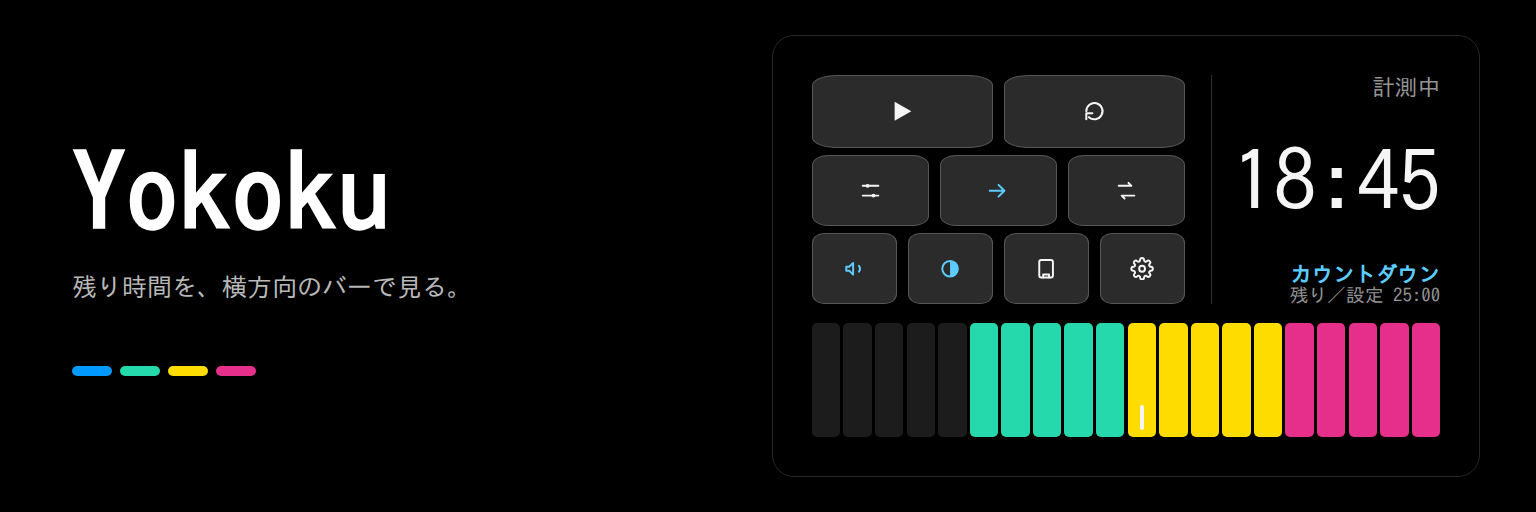
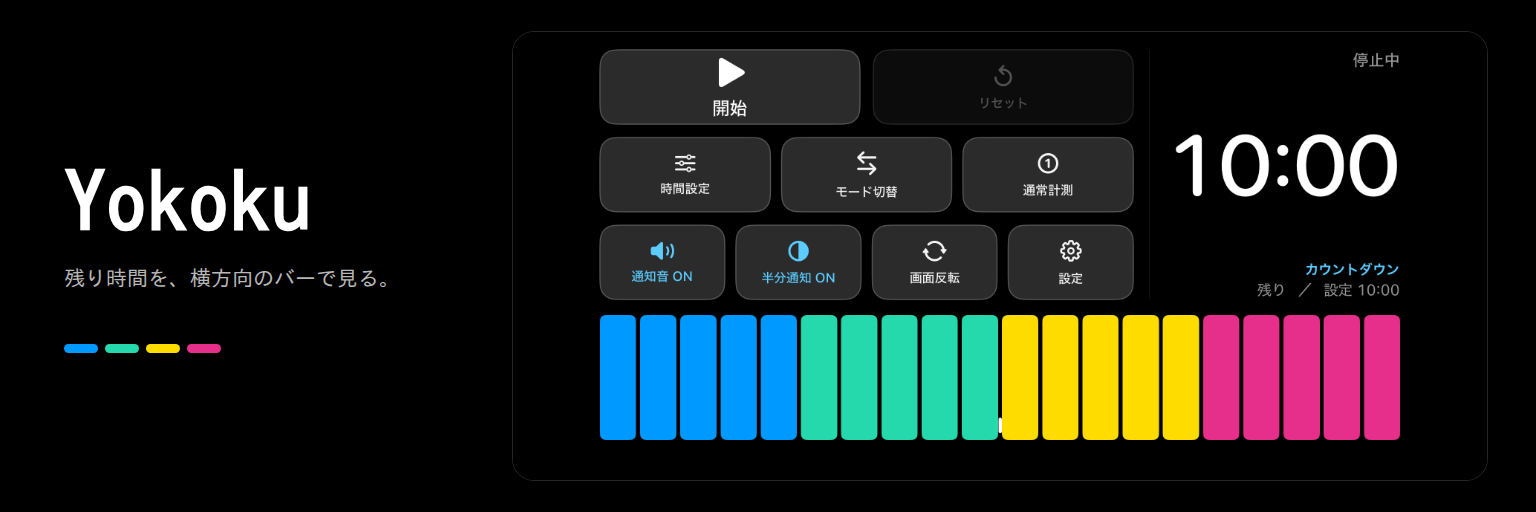
Replace CSS-mocked hero/thumbnail with real Yokoku screenshot
Uses the home.png device screenshot added in the previous commit
instead of the hand-drawn approximation of the TimerScreen layout.

diff --git a/yokoku/index.html b/yokoku/index.html
@@ -19,7 +19,6 @@
 <meta name="twitter:title" content="Yokoku｜横方向のビジュアルバータイマー">
 <meta name="twitter:description" content="残り時間を横方向のビジュアルバーで示すiPhone向けタイマーアプリ。バーは左端から減り、数字と同じ状態から描かれます。">
 <meta name="twitter:image" content="https://rinro.jp/assets/apps/yokoku-thumbnail.png">
-<link rel="stylesheet" href="assets/mock.css">
 <style>
   :root {
     color-scheme: dark;
@@ -111,12 +110,12 @@
   }
   .cta-note { font-size: 13px; color: var(--secondary); }
 
-  .hero-visual .yk-mock {
+  .hero-visual .home-shot {
     width: 100%;
-    aspect-ratio: 16 / 10;
+    display: block;
+    aspect-ratio: 2622 / 1206;
     border-radius: 22px;
     border: 1px solid var(--border);
-    padding: 5.5%;
   }
 
   section.features { padding: 20px 0 72px; border-top: 1px solid var(--border); }
@@ -190,77 +189,7 @@
           <p class="cta-note" style="margin-top: 14px;">現在開発中です。公開まで、もうしばらくお待ちください。</p>
         </div>
         <div class="hero-visual">
-          <div class="yk-mock">
-            <div class="yk-mock-upper">
-              <div class="yk-mock-controls">
-                <div class="yk-mock-row">
-                  <div class="yk-mock-btn primary">
-                    <svg viewBox="0 0 24 24" stroke-width="2" stroke-linecap="round" stroke-linejoin="round"><polygon points="6,4 20,12 6,20" fill="currentColor" stroke="none"/></svg>
-                  </div>
-                  <div class="yk-mock-btn">
-                    <svg viewBox="0 0 24 24" stroke-width="2" stroke-linecap="round" stroke-linejoin="round"><path d="M4 12a8 8 0 1 1 2.6 5.9"/><path d="M4 20v-6h6"/></svg>
-                  </div>
-                </div>
-                <div class="yk-mock-row">
-                  <div class="yk-mock-btn">
-                    <svg viewBox="0 0 24 24" stroke-width="2" stroke-linecap="round" stroke-linejoin="round"><path d="M4 7h16M4 17h16"/><circle cx="9" cy="7" r="2" fill="currentColor" stroke="none"/><circle cx="15" cy="17" r="2" fill="currentColor" stroke="none"/></svg>
-                  </div>
-                  <div class="yk-mock-btn on">
-                    <svg viewBox="0 0 24 24" stroke-width="2" stroke-linecap="round" stroke-linejoin="round"><path d="M3 12h13M12 6l6 6-6 6"/></svg>
-                  </div>
-                  <div class="yk-mock-btn">
-                    <svg viewBox="0 0 24 24" stroke-width="2" stroke-linecap="round" stroke-linejoin="round"><path d="M4 7h13l-3-3M20 17H7l3 3"/></svg>
-                  </div>
-                </div>
-                <div class="yk-mock-row">
-                  <div class="yk-mock-btn on">
-                    <svg viewBox="0 0 24 24" stroke-width="2" stroke-linecap="round" stroke-linejoin="round"><path d="M4 10v4h3l4 4V6L7 10H4Z"/><path d="M17 9a5 5 0 0 1 0 6"/></svg>
-                  </div>
-                  <div class="yk-mock-btn on">
-                    <svg viewBox="0 0 24 24" stroke-width="2" stroke-linecap="round" stroke-linejoin="round"><circle cx="12" cy="12" r="8"/><path d="M12 4a8 8 0 0 1 0 16Z" fill="currentColor" stroke="none"/></svg>
-                  </div>
-                  <div class="yk-mock-btn">
-                    <svg viewBox="0 0 24 24" stroke-width="2" stroke-linecap="round" stroke-linejoin="round"><path d="M17 3H7a2 2 0 0 0-2 2v14a2 2 0 0 0 2 2h10a2 2 0 0 0 2-2V5a2 2 0 0 0-2-2Z"/><path d="M9 21v-3h6v3"/></svg>
-                  </div>
-                  <div class="yk-mock-btn">
-                    <svg viewBox="0 0 24 24" stroke-width="2" stroke-linecap="round" stroke-linejoin="round"><circle cx="12" cy="12" r="3"/><path d="M19.4 15a1.7 1.7 0 0 0 .34 1.87l.06.06a2 2 0 1 1-2.83 2.83l-.06-.06a1.7 1.7 0 0 0-1.87-.34 1.7 1.7 0 0 0-1 1.55V21a2 2 0 0 1-4 0v-.09A1.7 1.7 0 0 0 9 19.4a1.7 1.7 0 0 0-1.87.34l-.06.06a2 2 0 1 1-2.83-2.83l.06-.06A1.7 1.7 0 0 0 4.6 15a1.7 1.7 0 0 0-1.55-1H3a2 2 0 0 1 0-4h.09A1.7 1.7 0 0 0 4.6 9a1.7 1.7 0 0 0-.34-1.87l-.06-.06a2 2 0 1 1 2.83-2.83l.06.06A1.7 1.7 0 0 0 9 4.6a1.7 1.7 0 0 0 1-1.55V3a2 2 0 0 1 4 0v.09a1.7 1.7 0 0 0 1 1.55 1.7 1.7 0 0 0 1.87-.34l.06-.06a2 2 0 1 1 2.83 2.83l-.06.06A1.7 1.7 0 0 0 19.4 9a1.7 1.7 0 0 0 1.55 1H21a2 2 0 0 1 0 4h-.09a1.7 1.7 0 0 0-1.55 1Z"/></svg>
-                  </div>
-                </div>
-              </div>
-              <div class="yk-mock-divider"></div>
-              <div class="yk-mock-readout">
-                <div class="yk-mock-status">計測中</div>
-                <div class="yk-mock-number">18:45</div>
-                <div class="yk-mock-meta">
-                  <div class="yk-mock-mode">カウントダウン</div>
-                  <div class="yk-mock-footer">残り／設定 25:00</div>
-                </div>
-              </div>
-            </div>
-            <div class="yk-mock-bar">
-              <div class="yk-mock-tick" style="background:#1c1c1c"></div>
-              <div class="yk-mock-tick" style="background:#1c1c1c"></div>
-              <div class="yk-mock-tick" style="background:#1c1c1c"></div>
-              <div class="yk-mock-tick" style="background:#1c1c1c"></div>
-              <div class="yk-mock-tick" style="background:#1c1c1c"></div>
-              <div class="yk-mock-tick" style="background:#26D9AC"></div>
-              <div class="yk-mock-tick" style="background:#26D9AC"></div>
-              <div class="yk-mock-tick" style="background:#26D9AC"></div>
-              <div class="yk-mock-tick" style="background:#26D9AC"></div>
-              <div class="yk-mock-tick" style="background:#26D9AC"></div>
-              <div class="yk-mock-tick" style="background:#FFDC00"></div>
-              <div class="yk-mock-tick" style="background:#FFDC00"></div>
-              <div class="yk-mock-tick" style="background:#FFDC00"></div>
-              <div class="yk-mock-tick" style="background:#FFDC00"></div>
-              <div class="yk-mock-tick" style="background:#FFDC00"></div>
-              <div class="yk-mock-tick" style="background:#E62F8B"></div>
-              <div class="yk-mock-tick" style="background:#E62F8B"></div>
-              <div class="yk-mock-tick" style="background:#E62F8B"></div>
-              <div class="yk-mock-tick" style="background:#E62F8B"></div>
-              <div class="yk-mock-tick" style="background:#E62F8B"></div>
-              <div class="yk-mock-halfway" style="left:52.5%"></div>
-            </div>
-          </div>
+          <img class="home-shot" src="assets/home.png" alt="Yokoku の実機画面。横方向のビジュアルバーと、カウントダウンの残り時間を表示している。">
         </div>
       </div>
     </section>
